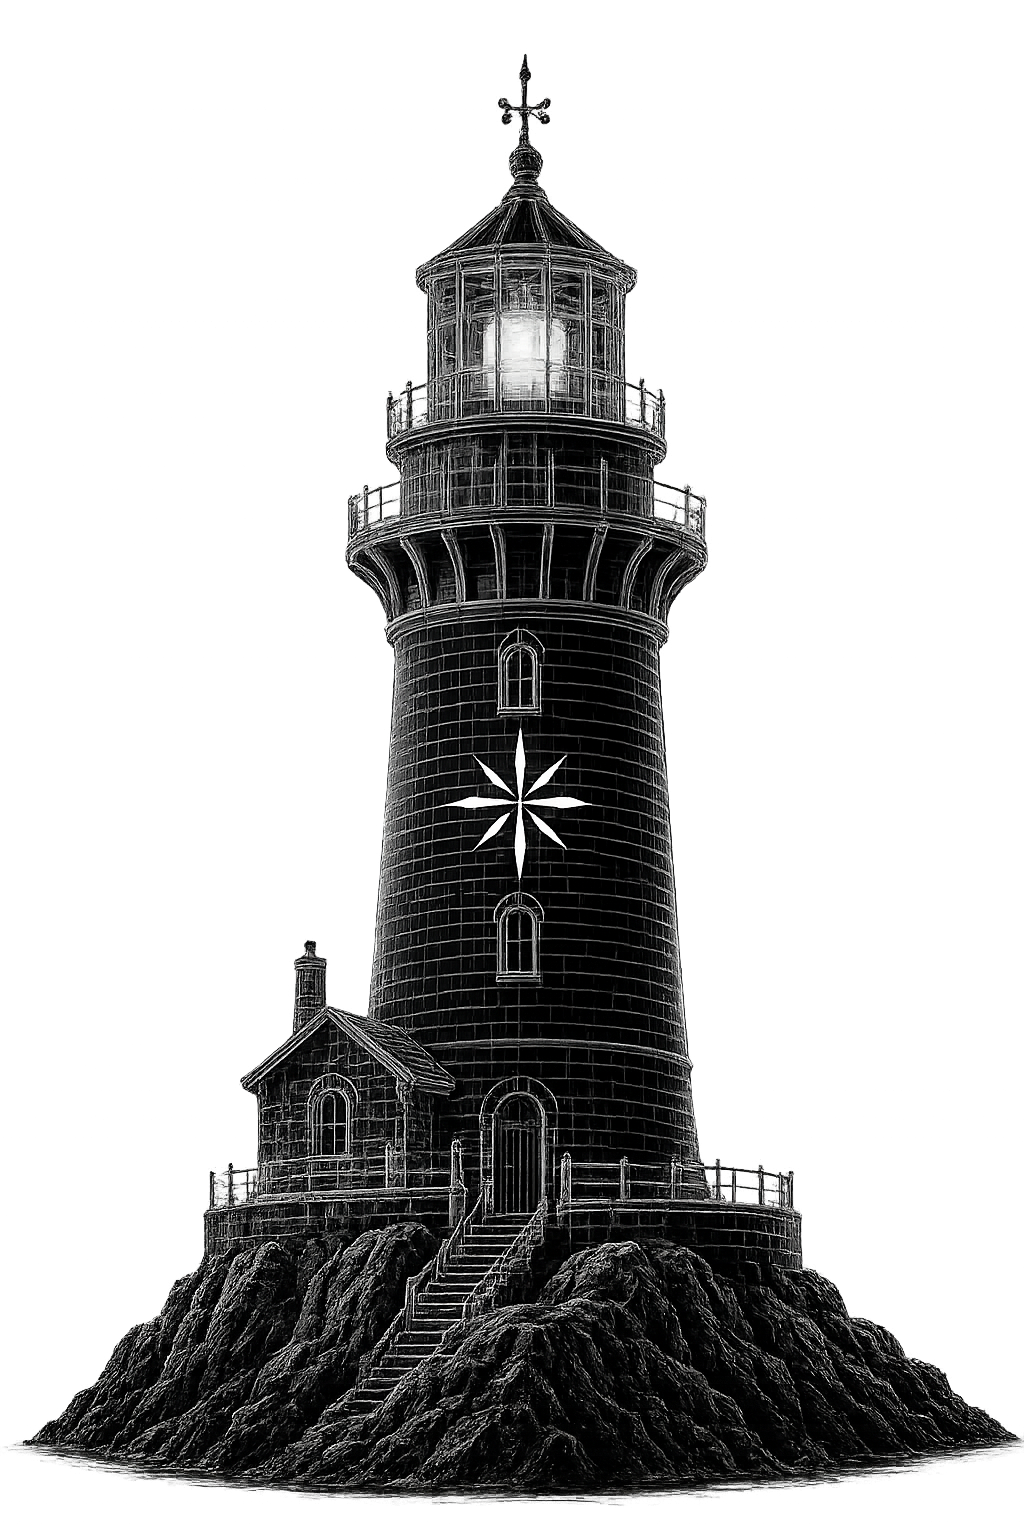
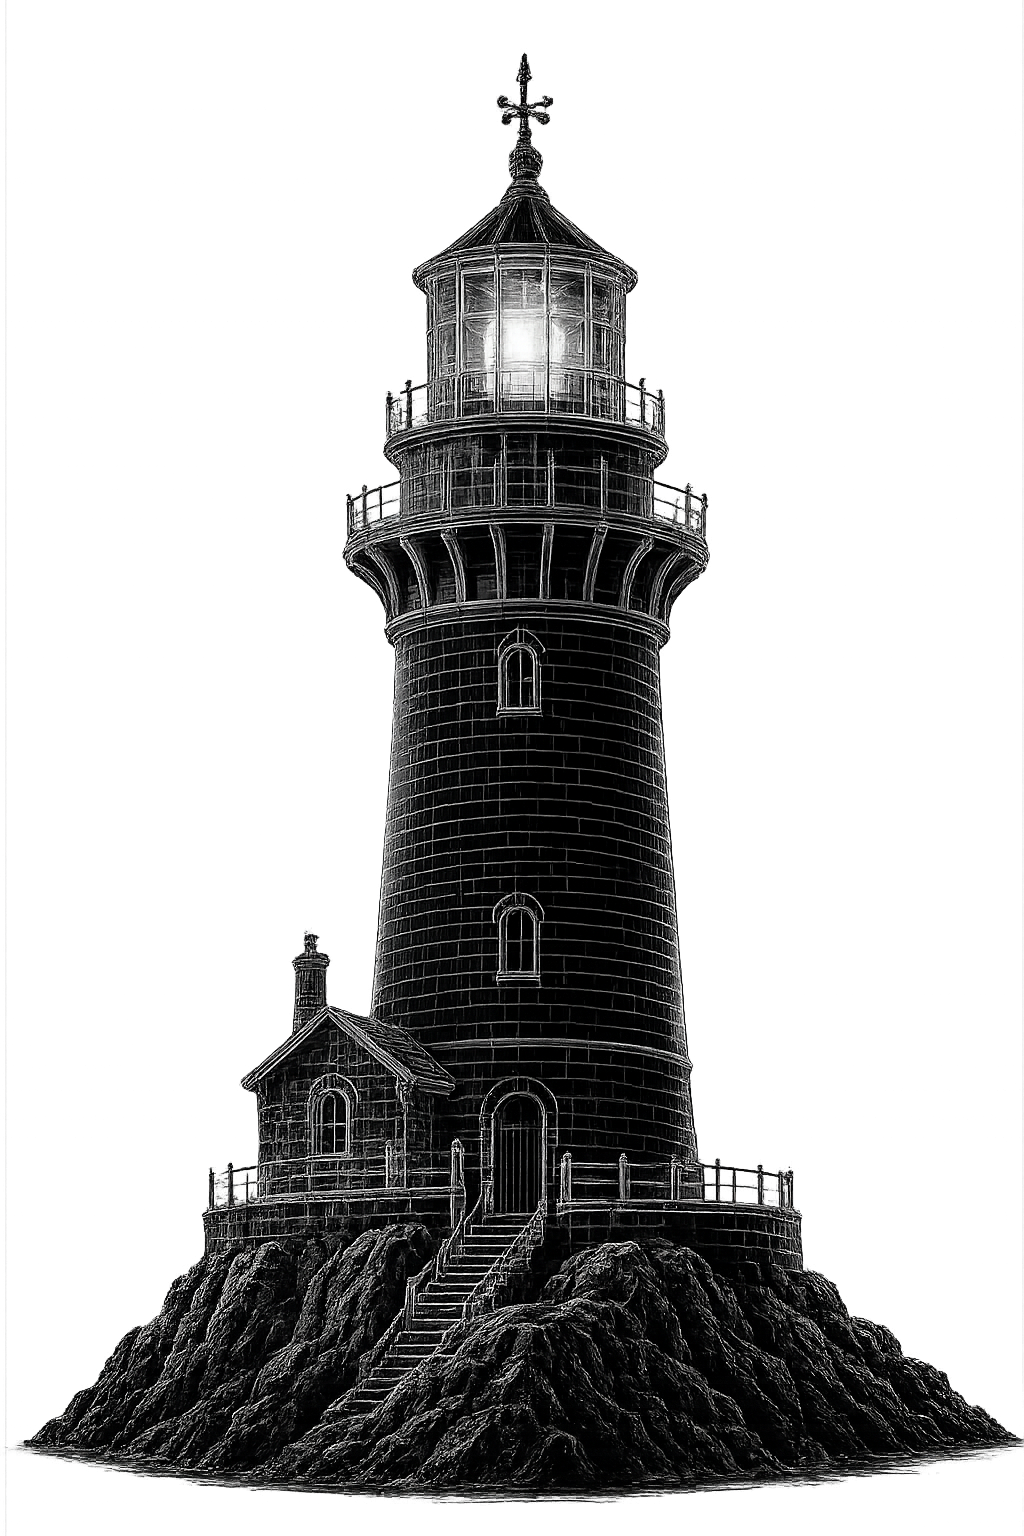
video changed

diff --git a/app/page.js b/app/page.js
@@ -881,18 +881,18 @@ export default function Home() {
           className="absolute inset-0 transition-opacity"
           style={{
             opacity: phase >= 1 && phase < 3 ? 1 : 0,
-            transitionDuration: "2000ms",
+            transitionDuration: "3000ms",
           }}
         >
           <video
             ref={videoRef}
-            className="w-full h-full object-cover"
+            className="w-full h-full object-fill"
             autoPlay
             muted
             playsInline
             onEnded={handleVideoEnd}
             src={
-              isMobile ? "/homebannervideo-mobile.mp4" : "/homebannervideo2.mp4"
+              isMobile ? "/homebannervideo-mobile.mp4" : "/homebannervideo3.mp4"
             }
           />
         </div>